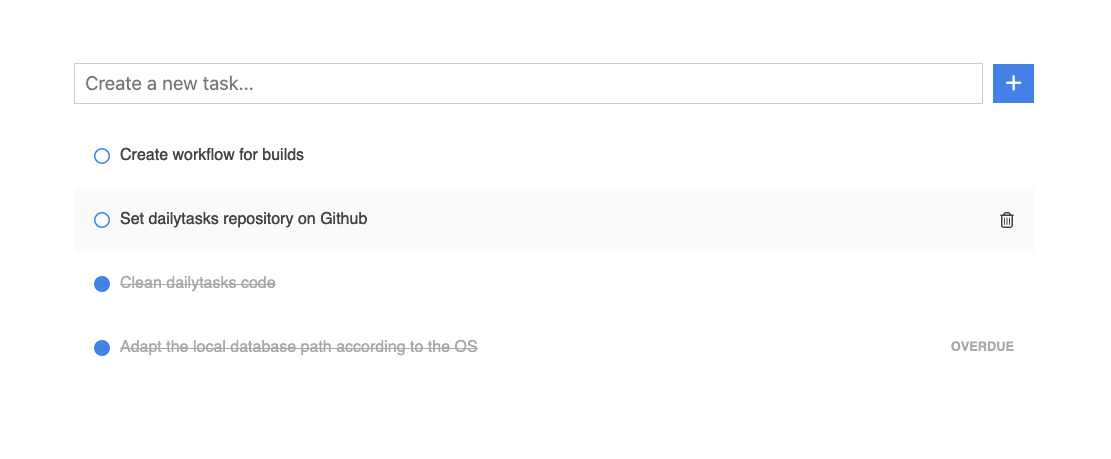
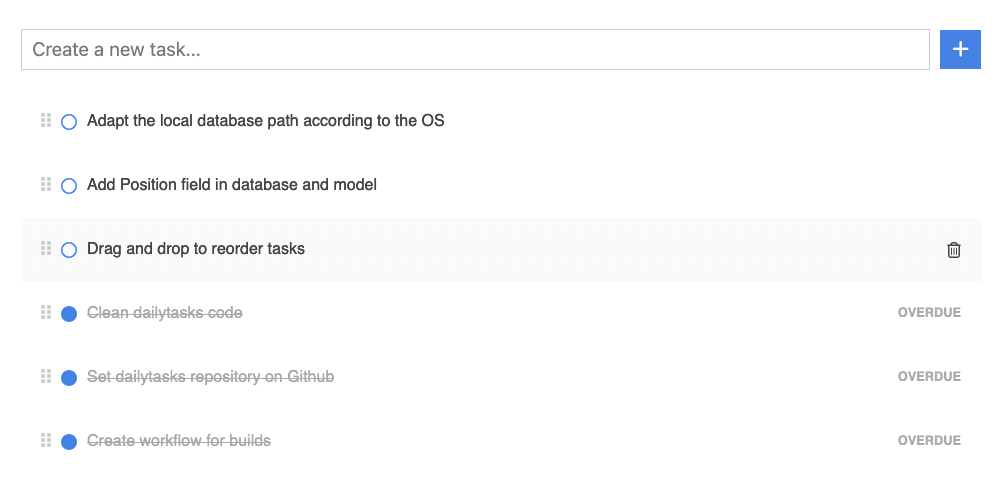
Sort tasks with drag and drop

diff --git a/templates/_tasks.html b/templates/_tasks.html
@@ -1,6 +1,10 @@
 <ul id="tasks">
   {{ range .Tasks }}
-  <li class="flex-row">
+  <li class="flex-row" draggable="true" data-id="{{ .ID }}">
+
+    <div class="grip emphasize-on-hover">
+      <i class="fa-solid fa-grip-vertical"></i>
+    </div>
 
     <!-- State switch -->
     <form hx-post="/update" hx-trigger="submit" hx-swap="none">
@@ -24,10 +28,17 @@
       <span title="Double click to edit">{{ .Title }}</span>
       <dialog>
         <h1>Edit task</h1>
-        <form method="dialog" hx-post="/update" hx-trigger="submit" hx-swap="none" hx-on::after-request="this.reset()" class="flex-row">
+        <form method="dialog"
+              hx-post="/update"
+              hx-trigger="submit"
+              hx-swap="none"
+              hx-on::after-request="this.reset()"
+              class="flex-row">
           <input type="hidden" name="id" value="{{ .ID }}" />
           <input type="text" name="title" class="flex-expand-cell" value="{{ .Title }}" />
-          <button type="submit" class="icon primary-button dim-on-hover"><i class="fa-solid fa-save"></i></button>
+          <button type="submit" class="icon primary-button dim-on-hover">
+            <i class="fa-solid fa-save"></i>
+          </button>
         </form>
       </dialog>
     </div>
@@ -43,7 +54,11 @@
     {{ end }}
 
     <!-- Delete -->
-    <form hx-post="/delete" hx-trigger="submit" hx-swap="none" hx-confirm="Are you sure you want to delete this task?" class="show-on-hover">
+    <form hx-post="/delete"
+          hx-trigger="submit"
+          hx-swap="none"
+          hx-confirm="Are you sure you want to delete this task?"
+          class="show-on-hover">
       <input type="hidden" name="id" value="{{ .ID }}" />
       <button class="icon secondary-button" title="Delete task">
         <i class="fa-regular fa-trash-can"></i>
@@ -58,17 +73,4 @@
   {{ end }}
 </ul>
 
-<script>
- var dblclickEdits = document.getElementsByClassName('dblclick-edit');
-
- for (let i = 0; i < dblclickEdits.length; i++) {
-   let display = dblclickEdits[i].getElementsByTagName('span')[0];
-   let dialog = dblclickEdits[i].getElementsByTagName('dialog')[0];
-
-   display.addEventListener('dblclick', function (e) {
-     if (!dialog.open) {
-       dialog.showModal();
-     }
-   });
- }
-</script>
+<script src="/static/todayornever-task.js"></script>

diff --git a/static/todayornever-task.js b/static/todayornever-task.js
@@ -1,0 +1,61 @@
+// File: todayornever-task.js
+// Creation: Tue Jun 11 11:21:41 2024
+// Time-stamp: <2024-06-11 18:11:45>
+// Copyright (C): 2024 Pierre Lecocq
+
+// -----------------------------------------------------------------------------
+// Edit
+
+var dialogEditElements = document.getElementsByClassName('dialog-edit');
+
+for (let i = 0; i < dialogEditElements.length; i++) {
+  let display = dialogEditElements[i].getElementsByTagName('span')[0];
+  let dialog = dialogEditElements[i].getElementsByTagName('dialog')[0];
+
+  display.addEventListener('dblclick', function (e) {
+    if (!dialog.open) {
+      dialog.showModal();
+    }
+  });
+}
+
+// -----------------------------------------------------------------------------
+// Sort
+
+var draggableElements = document.getElementsByClassName('grip');
+
+function dragEvent(event) {
+	event.dataTransfer.setData("text/plain", this.dataset.id);
+}
+
+function dragOverEvent(event) {
+	event.preventDefault();
+}
+
+function dropEvent(event) {
+	event.preventDefault();
+	let id1 = event.dataTransfer.getData("text/plain");
+  let id2 = this.dataset.id;
+  this.classList.remove('drop-hover');
+
+  if (id1 && id2 && id1 !== id2) {
+    htmx.ajax('POST', '/reorder', { swap: 'none', values: { id1, id2 } });
+  }
+}
+
+function dragEnterEvent(event) {
+  this.classList.add('drop-hover');
+}
+
+function dragLeaveEvent(event) {
+  this.classList.remove('drop-hover');
+}
+
+for (let i = 0; i < draggableElements.length; i++) {
+  let item = draggableElements[i];
+  item.parentNode.addEventListener('dragover', dragOverEvent);
+  item.parentNode.addEventListener('dragstart', dragEvent);
+  item.parentNode.addEventListener('drop', dropEvent);
+  item.parentNode.addEventListener('dragenter', dragEnterEvent);
+  item.parentNode.addEventListener('dragleave', dragLeaveEvent);
+}

diff --git a/static/todayornever.css b/static/todayornever.css
@@ -73,6 +73,10 @@ button.icon.secondary-button {
     filter: brightness(120%);
 }
 
+.emphasize-on-hover:hover {
+    filter: brightness(80%);
+}
+
 input[type="text"] {
     border: 1px solid var(--input-border-color);
     padding: 5px 10px;
@@ -119,6 +123,10 @@ input[type="text"]:focus {
     padding: 20px;
 }
 
+#tasks li.drop-hover {
+    border-top: 2px solid var(--primary-bg-color);
+}
+
 #tasks li:hover {
     background: var(--list-hover-color);
 }
@@ -130,6 +138,11 @@ input[type="text"]:focus {
 #tasks li:hover .show-on-hover {
     visibility: visible;
     padding-left: 10px;
+}
+
+#tasks li div.grip {
+    color: var(--input-border-color);
+    cursor: move;
 }
 
 #tasks li div.title {

diff --git a/database.go b/database.go
@@ -1,6 +1,6 @@
 // File: database.go
 // Creation: Fri May 24 07:41:56 2024
-// Time-stamp: <2024-06-07 14:51:06>
+// Time-stamp: <2024-06-12 09:46:49>
 // Copyright (C): 2024 Pierre Lecocq
 
 package main
@@ -28,6 +28,7 @@ type Task struct {
 	DueAt     *time.Time `sql:"due_at"`
 	CreatedAt *time.Time `sql:"created_at"`
 	UpdatedAt *time.Time `sql:"updated_at"`
+	Position  int64      `sql:"position"`
 	Overdue   bool       `sql:"-"`
 }
 
@@ -83,6 +84,7 @@ CREATE TABLE IF NOT EXISTS task (
     due_at TIMESTAMP DEFAULT (datetime('now', '+1 day', 'start of day')),
     created_at TIMESTAMP DEFAULT CURRENT_TIMESTAMP,
     updated_at TIMESTAMP DEFAULT CURRENT_TIMESTAMP,
+    position INTEGER,
     PRIMARY KEY(id AUTOINCREMENT)
 )`)
 	if err != nil {
@@ -120,16 +122,47 @@ func (db *Database) RefreshTaskDueDate(id int64) error {
 	return nil
 }
 
-func (db *Database) SwitchTaskState(id int64) error {
-	stmt, err := db.handler.Prepare(
-		"UPDATE task SET state = CASE state WHEN \"todo\" THEN \"done\" ELSE \"todo\" END WHERE id = ?",
-	)
+func (db *Database) ReorderTasks(id1 int64, id2 int64) error {
+	t1, err := db.FetchTask(id1)
 
-	stmt.Exec(id)
+	if err != nil {
+		return err
+	}
+
+	t2, err := db.FetchTask(id2)
+
+	if err != nil {
+		return err
+	}
+
+	var query string
+
+	if t1.Position > t2.Position { // Moving up
+		query = "UPDATE task SET position = position + 1 WHERE position >= ? AND position < ?"
+	} else { // Moving down
+		query = "UPDATE task SET position = position - 1 WHERE position <= ? AND position > ?"
+	}
+
+	stmt, err := db.handler.Prepare(query)
+
+	stmt.Exec(t2.Position, t1.Position)
+
 	defer stmt.Close()
 
 	if err != nil {
 		return err
+	}
+
+	stmtUpdate, errUpdate := db.handler.Prepare(
+		"UPDATE task SET position = ?  WHERE id = ?",
+	)
+
+	stmtUpdate.Exec(t2.Position, t1.ID)
+
+	defer stmtUpdate.Close()
+
+	if errUpdate != nil {
+		return errUpdate
 	}
 
 	return nil
@@ -178,9 +211,9 @@ func (db *Database) UpdateTask(t Task) error {
 }
 
 func (db *Database) CreateTask(t Task) error {
-	stmt, err := db.handler.Prepare(
-		"INSERT INTO task (title, state, due_at) VALUES (?, 'todo', datetime('now', '+1 day', 'start of day'))",
-	)
+	stmt, err := db.handler.Prepare(`
+INSERT INTO task (title, state, due_at, position)
+  SELECT ?, 'todo', datetime('now', '+1 day', 'start of day'), MAX(position) + 1 FROM task`)
 
 	stmt.Exec(t.Title)
 	defer stmt.Close()
@@ -196,7 +229,7 @@ func (db *Database) FetchTask(id int64) (Task, error) {
 	var t Task
 
 	err := db.handler.QueryRow(
-		"SELECT id, title, state, due_at, created_at, updated_at FROM task WHERE id = ?",
+		"SELECT id, title, state, due_at, created_at, updated_at, position FROM task WHERE id = ?",
 		id,
 	).Scan(
 		&t.ID,
@@ -205,6 +238,7 @@ func (db *Database) FetchTask(id int64) (Task, error) {
 		&t.DueAt,
 		&t.CreatedAt,
 		&t.UpdatedAt,
+		&t.Position,
 	)
 
 	if err != nil {
@@ -217,9 +251,10 @@ func (db *Database) FetchTask(id int64) (Task, error) {
 func (db *Database) FetchTasks() []Task {
 	var tasks []Task
 
-	rows, err := db.handler.Query(
-		"SELECT id, title, state, due_at, created_at, updated_at FROM task ORDER by due_at desc, (case state when 'todo' then 0 when 'done' then 1 end),  created_at desc",
-	)
+	rows, err := db.handler.Query(`
+    SELECT id, title, state, due_at, created_at, updated_at, position
+      FROM task
+      ORDER by (case state when 'todo' then 0 when 'done' then 1 end), position asc`)
 	defer rows.Close()
 
 	err = rows.Err()
@@ -238,6 +273,7 @@ func (db *Database) FetchTasks() []Task {
 			&t.DueAt,
 			&t.CreatedAt,
 			&t.UpdatedAt,
+			&t.Position,
 		)
 
 		if err != nil {

diff --git a/server.go b/server.go
@@ -1,6 +1,6 @@
 // File: server.go
 // Creation: Wed May 29 16:35:29 2024
-// Time-stamp: <2024-06-07 14:50:42>
+// Time-stamp: <2024-06-11 14:22:06>
 // Copyright (C): 2024 Pierre Lecocq
 
 package main
@@ -50,6 +50,46 @@ func deleteHandler(w http.ResponseWriter, r *http.Request, db *Database) {
 
 	w.Header().Set("HX-Trigger", "reload-tasks")
 	f = Feedback{Type: "success", Message: "Task deleted successfully"}
+	template.Must(template.ParseFiles("templates/_feedback.html")).Execute(w, f)
+}
+
+func reorderHandler(w http.ResponseWriter, r *http.Request, db *Database) {
+	var f Feedback
+
+	err := r.ParseForm()
+
+	if err != nil {
+		f = Feedback{Type: "error", Message: "Invalid form data"}
+		template.Must(template.ParseFiles("templates/_feedback.html")).Execute(w, f)
+		return
+	}
+
+	id1, err := strconv.Atoi(r.Form.Get("id1"))
+
+	if err != nil || id1 <= 0 {
+		f = Feedback{Type: "error", Message: "Invalid ID1"}
+		template.Must(template.ParseFiles("templates/_feedback.html")).Execute(w, f)
+		return
+	}
+
+	id2, err := strconv.Atoi(r.Form.Get("id2"))
+
+	if err != nil || id2 <= 0 {
+		f = Feedback{Type: "error", Message: "Invalid ID2"}
+		template.Must(template.ParseFiles("templates/_feedback.html")).Execute(w, f)
+		return
+	}
+
+	err = db.ReorderTasks(int64(id1), int64(id2))
+
+	if err != nil {
+		f = Feedback{Type: "error", Message: "Error"}
+		template.Must(template.ParseFiles("templates/_feedback.html")).Execute(w, f)
+		return
+	}
+
+	w.Header().Set("HX-Trigger", "reload-tasks")
+	f = Feedback{Type: "success", Message: "Task reordered successfully"}
 	template.Must(template.ParseFiles("templates/_feedback.html")).Execute(w, f)
 }
 
@@ -232,6 +272,10 @@ func StartServer(port int, db *Database) {
 	// Routes
 	r.HandleFunc("/delete", func(w http.ResponseWriter, r *http.Request) {
 		deleteHandler(w, r, db)
+	}).Methods("POST")
+
+	r.HandleFunc("/reorder", func(w http.ResponseWriter, r *http.Request) {
+		reorderHandler(w, r, db)
 	}).Methods("POST")
 
 	r.HandleFunc("/refresh", func(w http.ResponseWriter, r *http.Request) {

diff --git a/README.md b/README.md
@@ -12,17 +12,17 @@ Simply organize your daily tasks, and focus on what you can actually do today!
 
 ![Screenshot](./screenshot.png)
 
----
-
-## Development
-
-### Stack
-
-Built with [Golang](https://go.dev/), [HTMx](https://htmx.org/) and [SQLite](https://sqlite.org/).
-
-### Compile and run
+## Compile and run
 
 ```
 make
 make run
 ```
+
+## Use it!
+
+Open [http://localhost:8080](http://localhost:8080/) in your browser.
+
+## Stack
+
+Built with [Golang](https://go.dev/), [HTMx](https://htmx.org/) and [SQLite](https://sqlite.org/).
